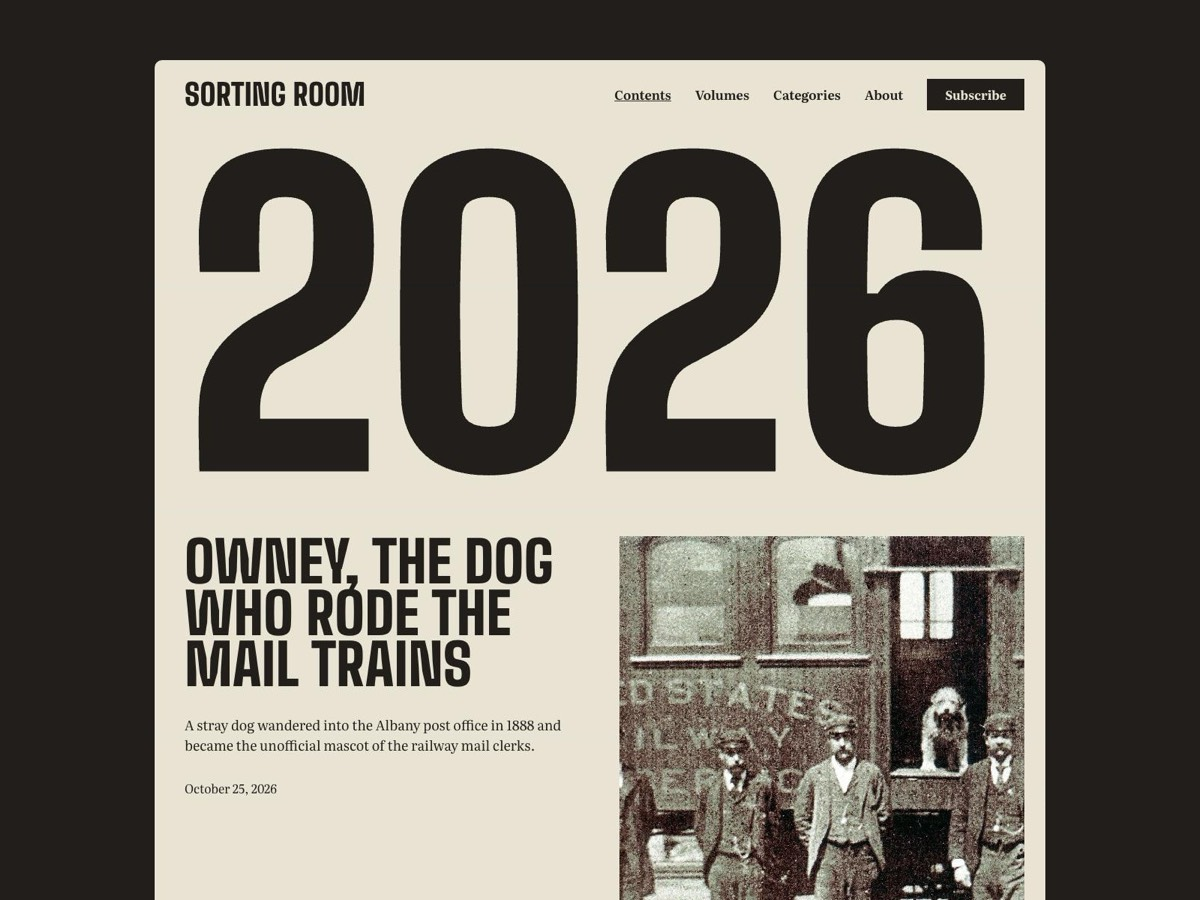
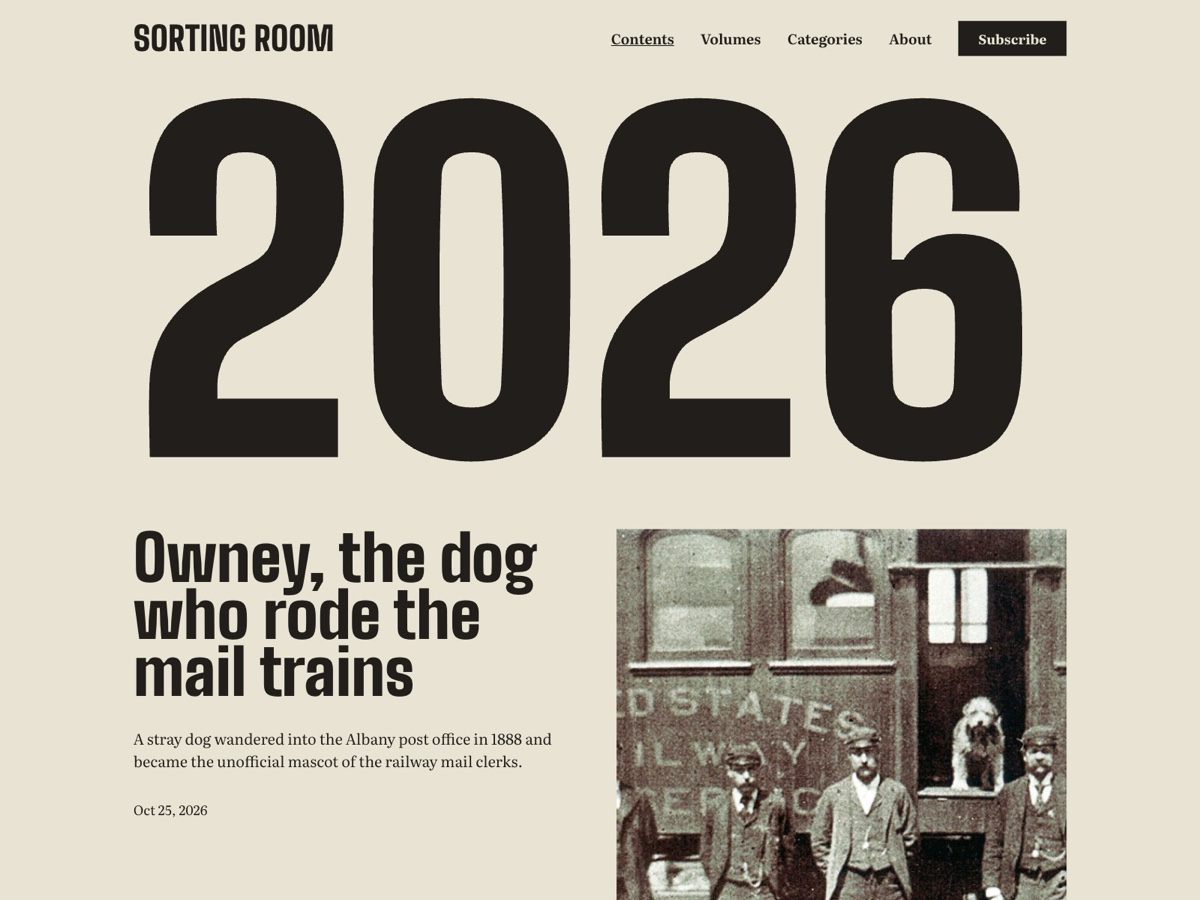
V260: Back Issue Marketplace link and current home shot (cover B, normal-case titles)

diff --git a/blog-import/index.md b/blog-import/index.md
@@ -67,7 +67,7 @@ The Framer pricing link on this page is our referral link. If you start a new Fr
 
 ## A template made for it
 
-[Back Issue](BACK_ISSUE_MARKETPLACE_URL) is our magazine-style blog template for Framer, built around what Blog Import writes. Import your posts with "2 collections, Blog and categories" and the home page, post pages and category pages fill in with your own years, covers and categories. It runs on Framer Basic. $69 once, with a full refund within 14 days.
+[Back Issue](https://www.framer.com/marketplace/templates/back-issue/) is our magazine-style blog template for Framer, built around what Blog Import writes. Import your posts with "2 collections, Blog and categories" and the home page, post pages and category pages fill in with your own years, covers and categories. It runs on Framer Basic. $69 once, with a full refund within 14 days.
 
 <img src="/blog-import/back-issue.jpg" alt="Back Issue home page in Framer, filled with imported posts" width="1200" height="900" loading="lazy" style="width:100%;height:auto;border-radius:12px;border:1px solid var(--line)">
 
